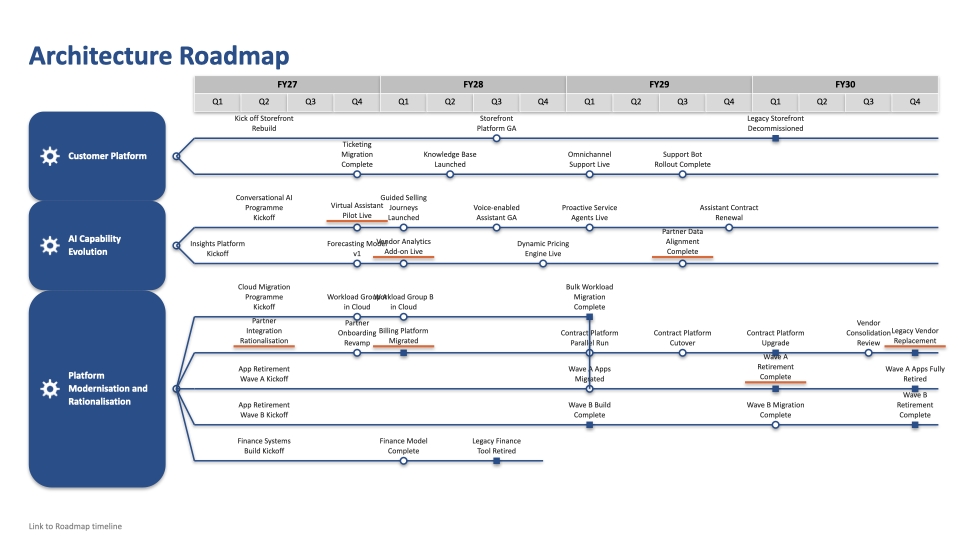
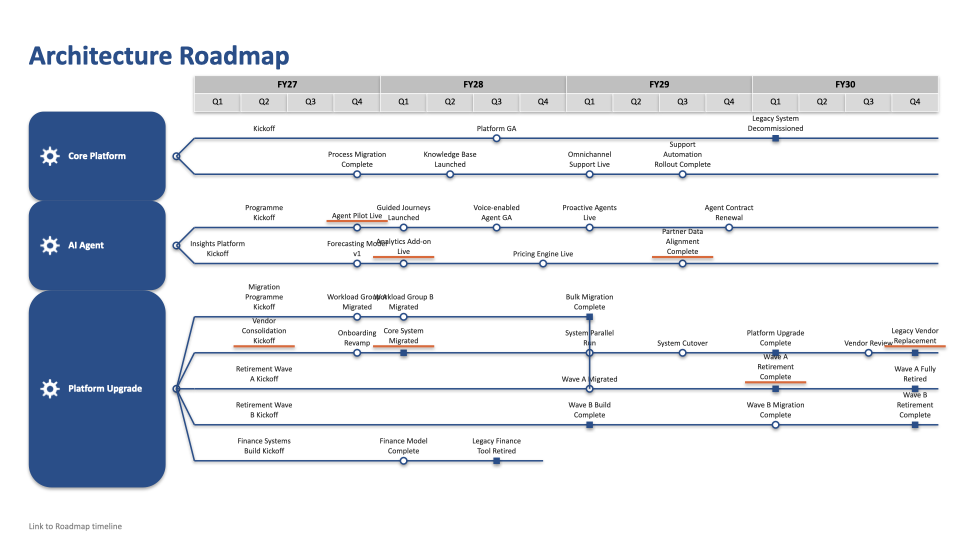
Genericize fictional company roadmap domains and item names
Renamed domains to generic, platform-type-agnostic terms: Customer
Platform -> Core Platform, AI Capability Evolution -> AI Agent, Platform
Modernisation and Rationalisation -> Platform Upgrade. Track/event labels
within each domain were similarly stripped of specific platform-type
flavor (e.g. "Storefront", "Billing Platform", "Contract Platform") so the
example reads as a neutral template rather than any particular business
domain. Updated the smoke test and README's inline YAML example to match,
and regenerated docs/example_roadmap.png.

diff --git a/tests/test_render_smoke.py b/tests/test_render_smoke.py
@@ -35,9 +35,9 @@ def test_render_example_roadmap_end_to_end(tmp_path):
 
     text = _all_text(slide)
     assert "Architecture Roadmap" in text
-    assert "Customer Platform" in text
-    assert "Kick off Storefront Rebuild" in text
-    assert "Virtual Assistant Pilot Live" in text
+    assert "Core Platform" in text
+    assert "Kickoff" in text
+    assert "Agent Pilot Live" in text
     # No confidentiality watermark unless the roadmap explicitly opts in.
     assert "Confidential" not in text
 

diff --git a/README.md b/README.md
@@ -53,16 +53,16 @@ timeline:
   start: "FY27.Q1"
   end: "FY28.Q4"
 domains:
-  - name: "Customer Platform"
+  - name: "Core Platform"
     icon: "gear.png"        # looked up in the resolved icon directory
     tracks:
-      - name: "Storefront Modernisation"
+      - name: "Platform Rebuild"
         events:
           - {type: start, period: "FY27.Q1", label: "Kickoff"}
           - {type: milestone, period: "FY27.Q3", label: "Pilot Live", highlight: true}
           - {type: delivery, period: "FY28.Q2", label: "GA Release"}
 dependencies:
-  - from_event: "customer_platform.storefront_modernisation.<event_id>"
+  - from_event: "core_platform.platform_rebuild.<event_id>"
     to_event: "other_domain.other_track.<event_id>"
     style: dashed
     label: "enables"
